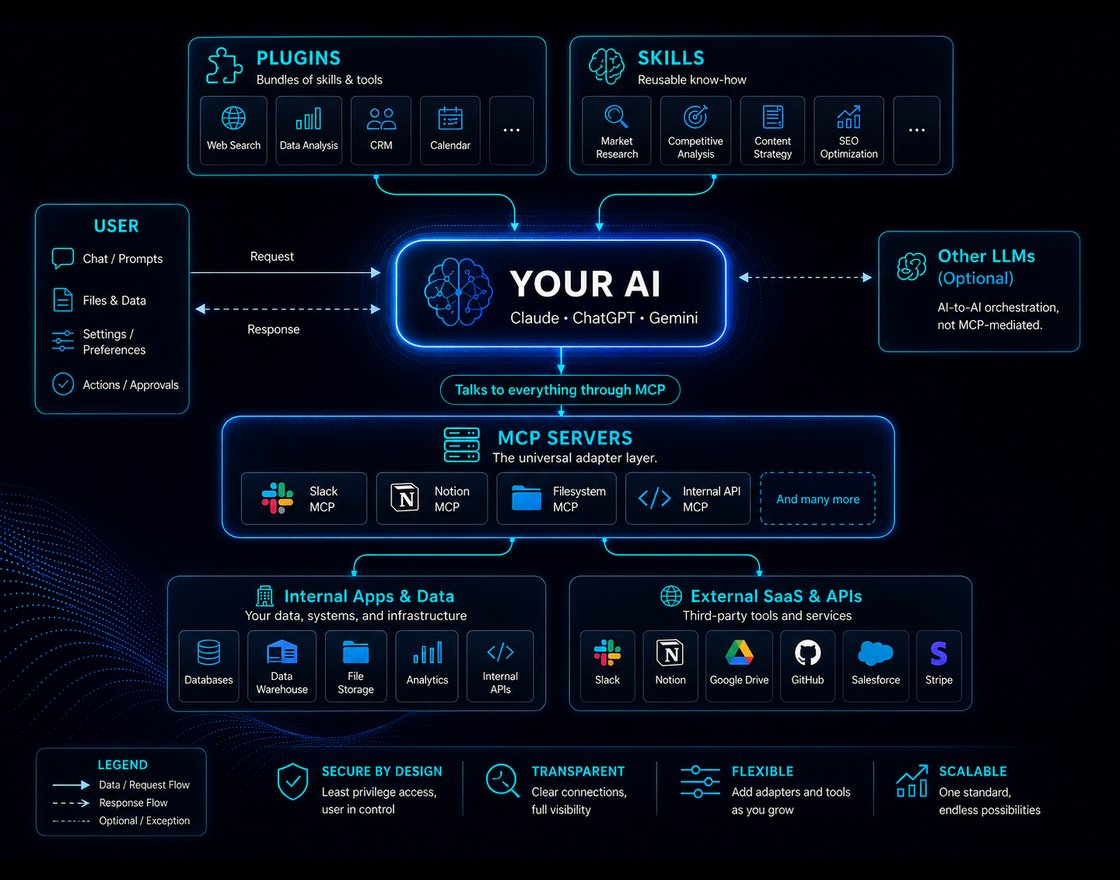
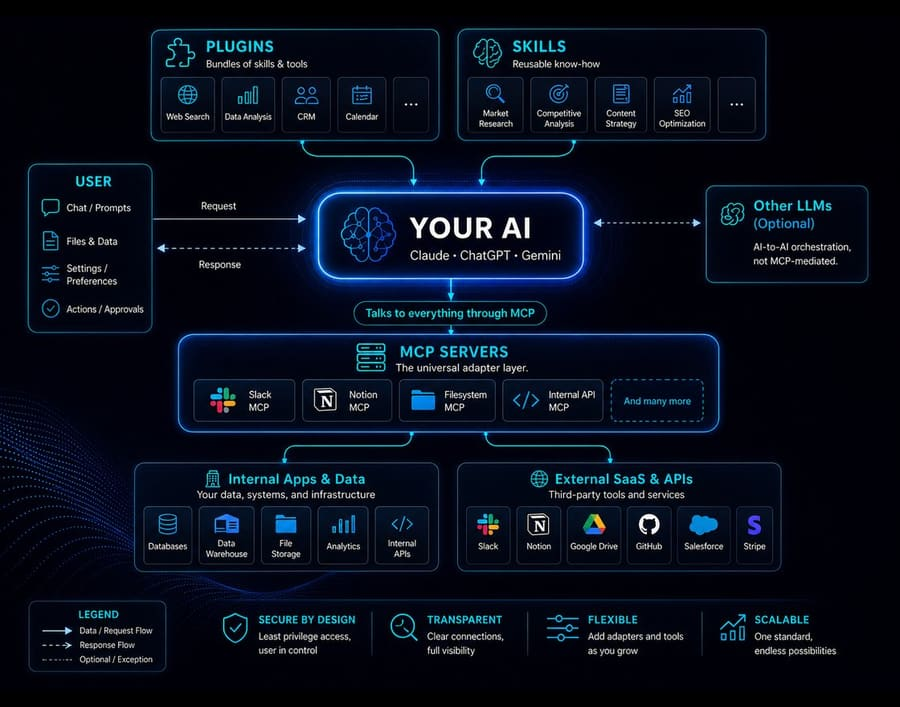
Home reference cards: load thumbnails eagerly and cut them from 900KB/154KB to 173KB/74KB

diff --git a/index.html b/index.html
@@ -134,7 +134,7 @@
 
 
     <section class="research-section" id="research" aria-labelledby="research-title"><div class="page-width"><div class="research-heading"><div><p class="eyebrow">Research that informs our work</p><h2 id="research-title">We track the market.<br>Test the tools.<br><em>Share what we find.</em></h2></div><div><p>Our implementation work is informed by ongoing research, hands-on evaluation, and a close watch on new AI technology.</p><p>Explore practical guides, clear explanations, and independent perspectives. Useful whether or not we work together.</p><a class="text-link" href="resources.html">Explore all research and resources →</a></div></div>
-      <div class="reference-grid"><a class="reference-card" href="landscape/index.html"><div class="reference-art"><img src="images/landscape-ai-thumb.png" alt="Existing FutureInSites AI technology landscape, organized by category" width="2000" height="1200" loading="lazy"></div><div class="reference-body"><span class="eyebrow">Reference · market coverage</span><h3>The AI Vendor Landscape</h3><p>A categorized view of model providers, platforms, and applied AI companies.</p><span class="text-link">Explore the landscape →</span></div></a><a class="reference-card" href="landscape/ai-bolt-ons.html"><div class="reference-art"><img src="images/ai-bolt-ons-thumb.jpg" alt="Existing FutureInSites diagram of plugins, skills, and MCP connections" width="1100" height="868" loading="lazy"></div><div class="reference-body"><span class="eyebrow">Reference · tools and integrations</span><h3>AI Add-Ons</h3><p>Plugins, skills, connectors, and browser agents that extend the tools you use.</p><span class="text-link">Browse add-ons →</span></div></a></div>
+      <div class="reference-grid"><a class="reference-card" href="landscape/index.html"><div class="reference-art"><img src="images/landscape-ai-thumb.png" alt="Existing FutureInSites AI technology landscape, organized by category" width="1200" height="720" decoding="async"></div><div class="reference-body"><span class="eyebrow">Reference · market coverage</span><h3>The AI Vendor Landscape</h3><p>A categorized view of model providers, platforms, and applied AI companies.</p><span class="text-link">Explore the landscape →</span></div></a><a class="reference-card" href="landscape/ai-bolt-ons.html"><div class="reference-art"><img src="images/ai-bolt-ons-thumb.jpg" alt="Existing FutureInSites diagram of plugins, skills, and MCP connections" width="900" height="710" decoding="async"></div><div class="reference-body"><span class="eyebrow">Reference · tools and integrations</span><h3>AI Add-Ons</h3><p>Plugins, skills, connectors, and browser agents that extend the tools you use.</p><span class="text-link">Browse add-ons →</span></div></a></div>
       <div class="editorial-grid">
         <section class="editorial-column primer-column" aria-labelledby="primers-title"><div class="column-header"><h3 id="primers-title">Primers</h3><span>Understand how it works</span></div><div class="primer-links"><a class="article-link" href="primers/ai-for-executives.html"><img src="articles/chiefofstaff.main.png" alt="" loading="lazy" width="200" height="140"><div><h4>AI for Executives</h4><p>A plain-language guide to what AI can do and where it creates value.</p><span aria-hidden="true">→</span></div></a><a class="article-link" href="primers/what-is-an-ai-agent.html"><img src="articles/ai-agent-compartments.png" alt="" loading="lazy" width="200" height="140"><div><h4>What Is an AI Agent?</h4><p>The components, their roles, and their limits.</p><span aria-hidden="true">→</span></div></a><a class="article-link" href="primers/building-ai-agents.html"><img src="articles/agent.primer1.png" alt="" loading="lazy" width="200" height="140"><div><h4>Building AI Agents</h4><p>An eight-step framework for a useful, reliable AI agent.</p><span aria-hidden="true">→</span></div></a><a class="article-link" href="primers/history-of-generative-ai.html"><img src="articles/RoadtoGenAI.png" alt="" loading="lazy" width="200" height="140"><div><h4>History of Generative AI</h4><p>The research that brought us here.</p><span aria-hidden="true">→</span></div></a></div><a class="column-more" href="primers/index.html">Explore all primers →</a></section>
         <section class="editorial-column" aria-labelledby="howto-title"><div class="column-header"><h3 id="howto-title">How To</h3><span>Put it into practice</span></div><a class="article-link" href="openclaw-windows-setup.html"><img src="images/personal.agent.setup.png" alt="Original OpenClaw setup guide artwork" loading="lazy" width="200" height="140"><div><h4>Windows OpenClaw Setup</h4><p>Ten steps to setting up your own AI agent.</p><span aria-hidden="true">→</span></div></a><a class="article-link" href="job-search-command-center.html"><img src="images/job-search-command-center-thumb.svg" alt="Original Job Search Command Center artwork" loading="lazy" width="200" height="140"><div><h4>Job Search Command Center</h4><p>Build a workflow you can own and adapt.</p><span aria-hidden="true">→</span></div></a><a class="column-more" href="resources.html">More practical guides →</a></section>
